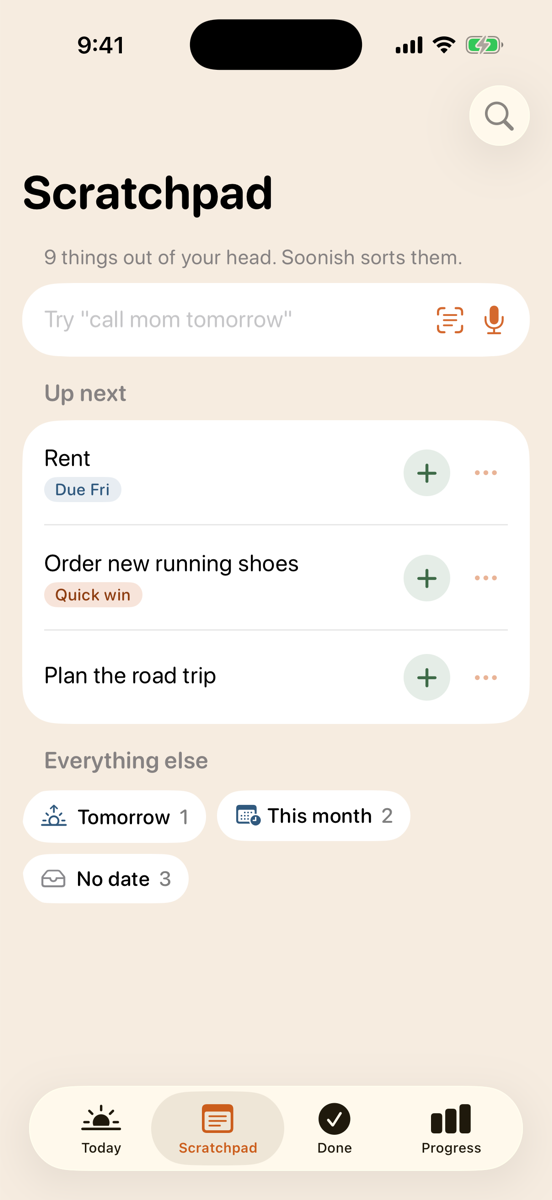
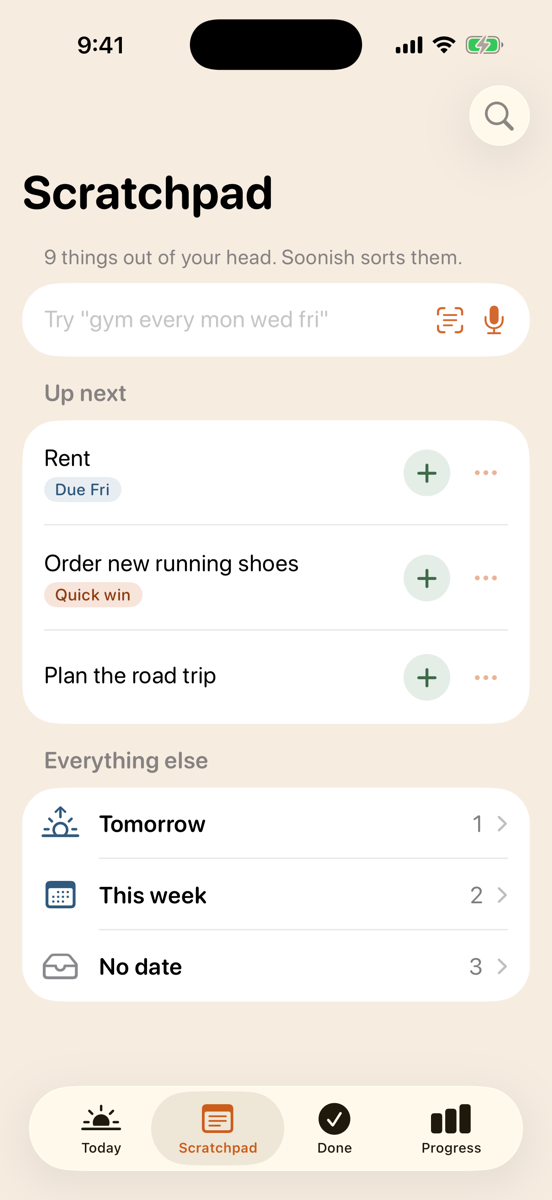
Scratchpad screenshot: one list card

Changed region(s): [[0.0308, 0.6475, 0.9855, 0.8325], [0.3388, 0.2467, 0.5851, 0.2775], [0.1848, 0.2467, 0.308, 0.2775]]

diff --git a/index.html b/index.html
@@ -52,7 +52,7 @@
       <figcaption>Today: your three, and where to start</figcaption>
     </figure>
     <figure>
-      <img src="images/scratchpad.png" alt="The Scratchpad: one line to add anything, Up next with a deadline chip, and dated tasks grouped into Tomorrow, This month and No date." width="276" height="600" loading="lazy">
+      <img src="images/scratchpad.png" alt="The Scratchpad: one line to add anything, Up next with a deadline chip, and everything else in one list: Tomorrow, This week and No date." width="276" height="600" loading="lazy">
       <figcaption>Scratchpad: get it out of your head</figcaption>
     </figure>
     <figure>
